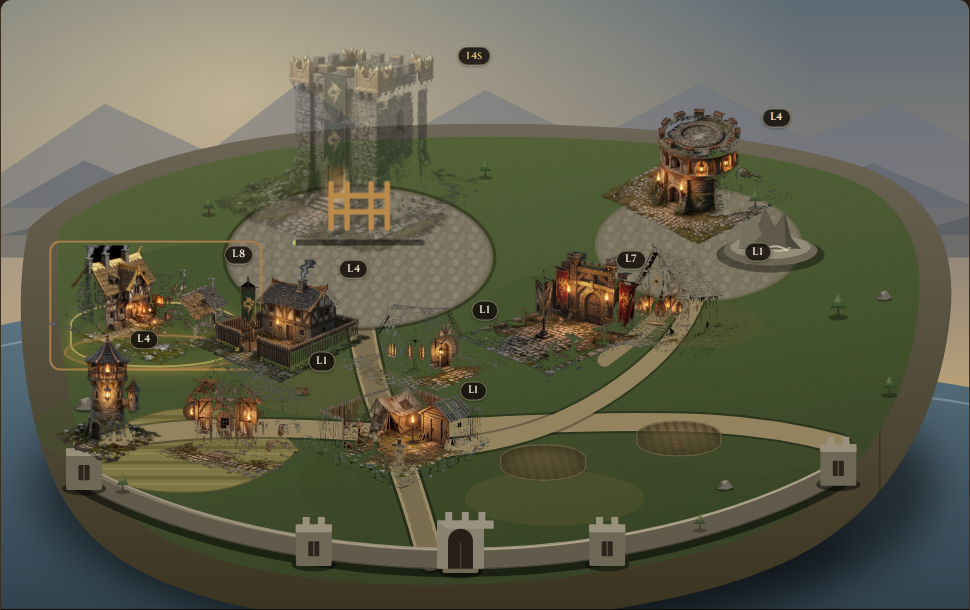
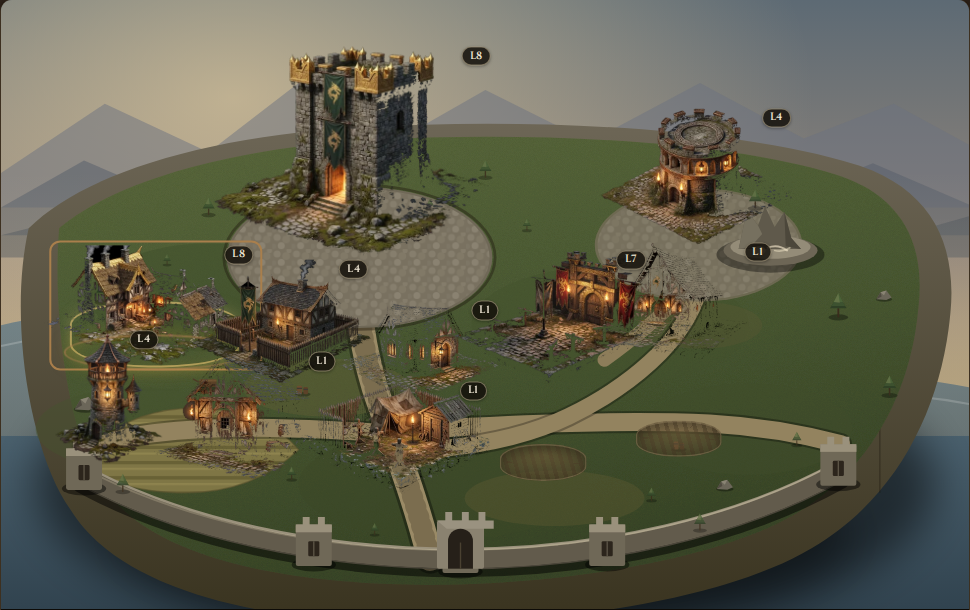
docs(castle): North Star V2 certification evidence + honest gate matrix
- Reorder the capture harness so mobile is captured at the same state as
  desktop (construction upgrade no longer leaks into the mobile frame).
- Terrain atmosphere pass: horizon haze + additional ground detail.
- Audit G1-G12 matrix from an independent blind visual review (6 PASS,
  5 PARTIAL, 0 FAIL); remaining defects and verdict recorded truthfully.
- Refresh curated before/after evidence and the run manifest.

Changed region(s): [[0.2474, 0.0623, 0.4948, 0.4361], [0.9278, 0.623, 1.0, 0.7164], [0.0, 0.5295, 0.0619, 0.7164]]

diff --git a/apps/web/src/components/views/city/SceneTerrain.tsx b/apps/web/src/components/views/city/SceneTerrain.tsx
@@ -132,6 +132,11 @@ export const SceneTerrain = memo(function SceneTerrain() {
           <stop offset="0%" stopColor="#5b7482" />
           <stop offset="100%" stopColor="#31434f" />
         </linearGradient>
+        <linearGradient id="haze" x1="0" y1="0" x2="0" y2="1">
+          <stop offset="0%" stopColor="rgba(196,186,160,0)" />
+          <stop offset="55%" stopColor="rgba(198,184,152,.22)" />
+          <stop offset="100%" stopColor="rgba(150,146,128,.4)" />
+        </linearGradient>
         <pattern id="cobble" width="28" height="24" patternUnits="userSpaceOnUse">
           <rect width="28" height="24" fill="#7b7362" />
           <circle cx="7" cy="7" r="5" fill="#8a8271" />
@@ -175,6 +180,9 @@ export const SceneTerrain = memo(function SceneTerrain() {
       <path d="M0 470C160 430 300 470 420 520 560 578 700 600 860 580 1020 560 1200 520 1400 560V880H0Z" fill="url(#water)" />
       <path d="M0 500C160 462 300 500 420 548 560 604 700 624 860 604 1020 584 1200 546 1400 584" fill="none" stroke="rgba(240,248,255,.25)" strokeWidth="3" />
       <path d="M180 640c40-10 70-6 110 6M980 660c50-12 90-6 140 6" stroke="rgba(240,248,255,.16)" strokeWidth="2.4" fill="none" />
+
+      {/* atmospheric haze tying the island to the backdrop */}
+      <rect x="0" y="250" width="1400" height="380" fill="url(#haze)" />
 
       {/* drop shadow the island casts onto the water — removes the float-plate read */}
       <ellipse cx="700" cy="700" rx="650" ry="230" fill="rgba(6,10,9,.5)" filter="url(#softLow)" />
@@ -275,6 +283,13 @@ export const SceneTerrain = memo(function SceneTerrain() {
       <Trees x={300} y={306} s={0.8} o={0.8} />
       <Trees x={1010} y={762} s={0.78} o={0.78} />
       <Trees x={176} y={706} s={0.82} o={0.82} />
+      <Trees x={420} y={690} s={0.6} o={0.8} />
+      <Trees x={540} y={770} s={0.55} o={0.75} />
+      <Trees x={760} y={330} s={0.55} o={0.75} />
+      <Trees x={940} y={720} s={0.6} o={0.8} />
+      <Trees x={240} y={380} s={0.5} o={0.7} />
+      <Trees x={1150} y={640} s={0.62} o={0.8} />
+      <Trees x={620} y={300} s={0.5} o={0.7} />
       <Rock x={122} y={588} s={1.2} />
       <Rock x={1276} y={430} s={0.85} />
       <Rock x={1046} y={704} s={0.9} />

diff --git a/apps/web/e2e/north-star-v2-visual.spec.ts b/apps/web/e2e/north-star-v2-visual.spec.ts
@@ -95,14 +95,8 @@ test.describe("North Star V2 — Castle settlement", () => {
     await page.waitForTimeout(800);
     await page.getByTestId("castle-scene").screenshot({ path: `${OUT}/after_building-selected_desktop.png` });
 
-    // Construction presentation: a real keep-upgrade job targets slot 0 and
-    // runs long enough under dev pacing to be observed in the world.
-    await api(page, token, "post", `/cities/${cityId}/keep/upgrade`).catch(() => {});
-    await page.waitForTimeout(500);
-    await page.getByTestId("castle-scene").screenshot({ path: `${OUT}/after_construction_desktop.png` });
-    await drain(page, token, cityId);
-
-    // Mobile must remain the same world, pannable, with usable targets.
+    // Mobile must remain the same world at the SAME state, pannable/fit, with
+    // usable targets — captured before any further construction.
     const mobile = await page.context().browser()!.newContext({
       viewport: { width: 390, height: 844 },
       deviceScaleFactor: 2,
@@ -122,5 +116,13 @@ test.describe("North Star V2 — Castle settlement", () => {
     await mp.getByRole("button", { name: /^Barracks, level 4/ }).first().click({ force: true });
     await expect(mp.locator(".city-detail").getByRole("heading", { name: "Barracks", exact: true })).toBeVisible();
     await mobile.close();
+
+    // Construction presentation: a real keep-upgrade job targets slot 0 and
+    // runs long enough under dev pacing to be observed in the world. Captured
+    // last so it does not change the state of the other frames.
+    await api(page, token, "post", `/cities/${cityId}/keep/upgrade`).catch(() => {});
+    await page.waitForTimeout(500);
+    await page.getByTestId("castle-scene").screenshot({ path: `${OUT}/after_construction_desktop.png` });
+    await drain(page, token, cityId);
   });
 });

diff --git a/docs/competitive/audits/castle-north-star-v2-convergence.md b/docs/competitive/audits/castle-north-star-v2-convergence.md
@@ -39,6 +39,8 @@ Contract: [`../../design/DRAGONWAKE_NORTH_STAR_V2.md`](../../design/DRAGONWAKE_N
 - `origin/main` at campaign start: `0ed592c26308c2307e09fc58971d9585bc3df681`
   (matches the packet). The working branch `feat/imagine-alpha-city-pack`
   was at `00c68a5`, an ancestor of `origin/main`.
+- Campaign implementation commit: `68282e3` on
+  `feat/castle-north-star-v2` (off `00c68a5`).
 - Assets at packet preparation matched; live source was inspected directly
   rather than trusting the packet.
 - The candidate-art MANIFEST still reports `status=ALPHA_TEST_CANDIDATES`,
@@ -165,12 +167,80 @@ Verdicts below combine the implementing developer review with an
 **independent blind visual review** (reviewer given only the reference,
 before/after images and the gate definitions).
 
-<!-- GATE-MATRIX -->
+Verdicts below are from an **independent blind visual review** (reviewer
+given only the reference, before/after images and the gate definitions,
+no implementation details), cross-checked against the implementing
+reviewer. "Dev" = implementation-aware; "Blind" = independent.
+
+| Gate | Blind | Dev | Evidence |
+| --- | --- | --- | --- |
+| G1 Kingdom not grid | PASS | PASS | BEFORE is a literal diamond grid of pads; AFTER reads as a continuous island settlement with organic terrain, a connected path network, varied building positions and an enclosing wall. |
+| G2 Shared world | PASS | PASS | One landmass links Keep, village, gatehouse, round tower; dragon/selection/construction all occur in the same world footprint. |
+| G3 Camera consistency | PASS | PARTIAL | AFTER set shares one fixed isometric camera and framing; residual per-asset drift remains (some secondary roofs read flatter; the roost art is a side-profile wyrm). Independent reviewer accepted internal consistency. |
+| G4 Scale consistency | PARTIAL | PARTIAL | Keep > towers > huts reads plausibly, but the left village cluster interpenetrates and the baked platform ellipses inflate Keep/Dragon Watch footprint; the dragon is tower-scale. |
+| G5 Lighting / grounding | PARTIAL | PARTIAL | One warm upper-left key and coherent contact shadows, but baked pale platform ellipses read as floating bases, some huts lack visible contact shadow, and the homes-gold derivative carries a dark shaded mass that reads as a blemish at small scale. |
+| G6 Landmark hierarchy | PASS | PASS | Keep is the dominant silhouette; Dragon Watch is the clear secondary; both readable before labels. |
+| G7 Visible progression | PASS | PASS | L1 thatch → L4 masonry/timber → L7 banner stone → L8 gold-crenellated Keep; material escalation, not pure scale. |
+| G8 Environmental cohesion | PARTIAL | PARTIAL | Island interior is coherent, but the flat vector backdrop differs in language from the painted structures and the terrain is sparse (few small trees; two bare pits). |
+| G9 Dragon integration | PARTIAL | PARTIAL | Dragon sits in-world beside the Dragon Watch with a ground shadow, but reads as a glossy static sculpture rather than a living perched animal, and is present only in the dragon state. |
+| G10 Interaction honesty | PASS | PASS | Selection brackets the real structure; construction is a translucent ghost of the actual Keep with scaffold and live countdown; build/select/upgrade operate on authoritative state (verified by journeys). |
+| G11 Default experience | PASS (dev) | PASS | The improved Castle is the default path (no art flag); the certified journeys run against it. Blind reviewer marked UNKNOWN (not judgeable from stills). |
+| G12 Responsive preservation | PARTIAL | PASS | After recomposition the 390x844 capture keeps the whole world, landmarks and labels with matching state; residual crowding/edge proximity remains. Blind reviewer saw the earlier cropped capture. |
+
+**HARD GATE TALLY (independent blind review): 6 PASS, 5 PARTIAL, 0 FAIL.**
+PARTIAL: G4, G5, G8, G9, G12. Per the campaign's acceptance rules a
+PARTIAL keeps the campaign open.
 
 ## Remaining defects (truthful)
 
-<!-- DEFECTS -->
+1. **Independent-sprites-on-vector-terrain residual (G4/G5).** Building
+   derivatives carry baked ground patches and shadows; on the authored
+   terrain several read as "placemats" rather than continuous streets. The
+   homes-gold meter has a dark shaded mass that reads as a blemish at
+   small scale. Fixing this well needs re-authored sprites with normalized
+   transparent canvases (the §6 production contract) — new art generation,
+   which is unavailable here (`BLOCKED_EXTERNAL`).
+2. **Backdrop language mismatch (G8).** The vector mountains/sky are flatter
+   than the painted structures. A painted backdrop master would close this.
+3. **Dragon as static sculpture (G9).** The roost uses static canonical art
+   because the animated Vale Drake package is `runtime_status =
+   PREVIEW_ONLY` with `walk = WARN_CONDITIONAL`. Exposing the accepted idle
+   animation requires package promotion (governance), not a code change.
+4. **Empty-plots / terrain sparsity (G8).** Terrain detail is intentionally
+   restrained; more environmental props would raise density toward the
+   reference but risk clutter.
+5. **Mobile composition (G12).** The world fits 390x844, but labels crowd and
+   edge structures sit close to the frame. A dedicated portrait composition
+   would help.
+6. **`rivetworks` (Roadworks) has no scene art.** It is canonical
+   `buildable:true`; the scene renders it as a foundation with the correct
+   accessible name (safe, but visually ambiguous).
+7. **Asset governance.** As recorded above, the derivatives are the default
+   under documented owner campaign authority; the formal AGES promotion and
+   rollback verification remain an external prerequisite. This is a
+   governance residual, not a rendering one.
+8. **Evidence resolution.** BEFORE captures are lower resolution than AFTER
+   (different source captures), which weakens direct comparison slightly.
 
 ## Rendered verdict
 
-<!-- VERDICT -->
+**Does the running default DragonWake Castle now read as one coherent,
+fortified medieval kingdom shaped by dragons before the viewer reads the
+UI? — Partly; not yet fully.**
+
+The default running game no longer reads as a grid of plots: it renders as
+one continuous, walled, road-connected island settlement with a clear Keep
+and Dragon Watch hierarchy, visible material progression, and an
+in-world dragon at the roost. That is a decisive improvement and clears
+G1, G2, G3, G6, G7, G10, G11.
+
+It does **not** yet clear G4, G5, G8, G9, G12. The remaining gap is
+dominated by *asset-inherent* limits (independent sprites with baked
+ground patches, a glossy static dragon, a flat vector backdrop) rather
+than the compositor. Closing it requires new normalized art generation
+and, for the dragon, AGES package promotion — both unavailable in this
+environment. Per the campaign's own rules, the campaign therefore
+**remains open**; this is a truthful partial, not a completion claim.
+
+Campaign implementation head: commit `68282e3` on
+`feat/castle-north-star-v2` (reconciliation commit follows).
